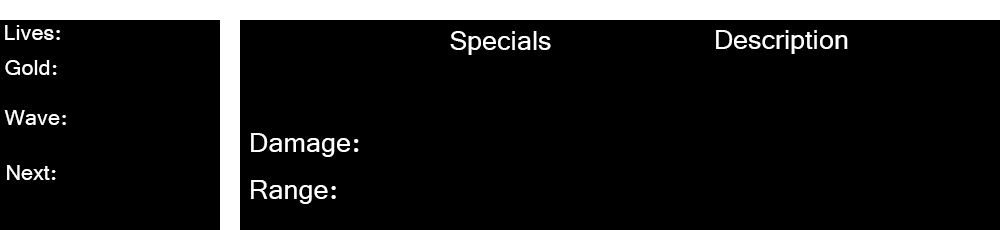
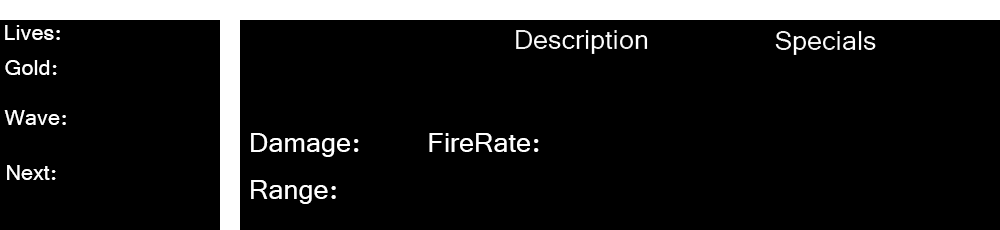
changed ui

Changed region(s): [[0.434, 0.1217, 0.651, 0.2435], [0.713, 0.1217, 0.899, 0.2435], [0.403, 0.5783, 0.558, 0.6696]]

diff --git a/Map.java b/Map.java
@@ -154,11 +154,8 @@ public class Map extends World{
 
         //variable to run place movemet 
         place =  false;
-
-        //cnostruct both buttons (Later build these buttons in the ui building)
     }
 
-    // CHANGED 0.13
     /**
      * Act - do whatever the Tower wants to do. This method is called whenever
      * the 'Act' or 'Run' button gets pressed in the environment.
@@ -176,7 +173,7 @@ public class Map extends World{
             /**Terence's Stuff**/
             checkInput(mouse); 
             if (mouse != null){
-                trackButtons(mouse);        //ADDED 0.135
+                trackButtons(mouse);
                 if (place) // used to place tower when onto the field
                     trackMouse(mouse);
             }
@@ -194,7 +191,6 @@ public class Map extends World{
 
     /**
      * Method that checks the mouse over of buttons
-     * ADDED 0.135
      */
     private void trackButtons (MouseInfo m){
         List<Actor> l = getObjectsAt (m.getX(), m.getY(), null);        //list of all the actors the mouse is ontop of
@@ -216,7 +212,6 @@ public class Map extends World{
 
     /**
      * Method that checks what did the user click on.  or what buttons are pressed
-     * CHANGED 0.135
      */
     private void checkInput(MouseInfo mouse){
         if(mouse != null && Greenfoot.mouseClicked(null)){
@@ -378,7 +373,6 @@ public class Map extends World{
     /**
      * Method for following the mouse when placing on field and placing the object. 
      * WHEN PLACE == TRUE
-     * CHANGED 0.13
      * */
     public void trackMouse(MouseInfo mouse){        
         double x = mouse.getX();
@@ -486,7 +480,7 @@ public class Map extends World{
                 }
 
                 if (!shiftClick){
-                    cancelBuild();      //CHANGED 0.13
+                    cancelBuild();
                 }
                 t.setGridX(x);//pass the grid coordinates for further refrence
                 t.setGridY(y);
@@ -536,7 +530,7 @@ public class Map extends World{
 
         setPaintOrder (StartScreen.class, HoverMenu.class, ChatBox.class, 
             Button.class, Ui.class, PointerArrow.class, Weapon.class, 
-            Tower.class, Range.class, HealthBar.class, Enemy.class, Tower.class, Tile.class);         //CHANGED 0.14
+            Tower.class, Range.class, HealthBar.class, Enemy.class, Tower.class, Tile.class);        
     }
 
     /**
@@ -556,9 +550,6 @@ public class Map extends World{
         }
     }
 
-    /**
-     * ADDED 0.13
-     */
     private void uiAct(){
         if (selectedTower != null && refreshUi){
             refreshUi = false;
@@ -573,9 +564,6 @@ public class Map extends World{
         }
     }
 
-    /**
-     * ADDED 0.13
-     */
     private void showRange(int range, boolean show){
         if (show){
             r = new Range(range);
@@ -625,7 +613,6 @@ public class Map extends World{
     /**
      * called after a mob dies
      * deletes it from the world, and removes it from the arraylist of mobs
-     * CHANGED 0.13
      */
     public void mobDie (Enemy mob, boolean exitWorld){
         if (!exitWorld){
@@ -717,7 +704,6 @@ public class Map extends World{
 
     /**
      * spawns a mob
-     * CHANGED 0.14
      */
     private void spawn(LinkedList<Enemy> ll){
         Enemy newEnemy = ll.remove();

diff --git a/Tower.java b/Tower.java
@@ -33,11 +33,10 @@ public class Tower extends Actor
     protected String elementString; //the string of the element
 
     protected int targetPriority;   //targetting priority, 1 for closest, 2 for furthest, etc
-  
+
     public Tower()
     {
-        //setImage("TowerPlaceHolder.png");
-        name = "Tower";
+        name = "";
         desc = new ArrayList<String>(5);
 
         targetedMob = null;
@@ -63,7 +62,7 @@ public class Tower extends Actor
             counter = 999;
         }
     }
- 
+
     /**
      * Act - do whatever the Tower wants to do. This method is called whenever
      * the 'Act' or 'Run' button gets pressed in the environment.
@@ -258,13 +257,12 @@ public class Tower extends Actor
         map.resetUi(); //refreshes the ui after upgrade
     }
 
-
     private void addDebuff()
     {
 
     }
 
-      /**
+    /**
      * passes the maximum attack range of the tower
      */
     public int getRange()
@@ -295,7 +293,7 @@ public class Tower extends Actor
     public int getDmg(){
         return power;
     }
-    
+
     public int getAttackSpeed(){
         return attackRate;
     }

diff --git a/WaterTower.java b/WaterTower.java
@@ -8,7 +8,7 @@ import greenfoot.*;  // (World, Actor, GreenfootImage, Greenfoot and MouseInfo)
  */
 public class WaterTower extends Tower
 {
-     public WaterTower() 
+    public WaterTower() 
     {
         super();
         setImage("Towers/waterTower.png");
@@ -17,10 +17,12 @@ public class WaterTower extends Tower
         range = 50;
         speed = 4;
         power = 20; 
-        
+
         element = 2;
         elementString = "water";
-        
+
+        name = "Water Tower";
+
         desc.add ("Insert Description Here");
         desc.add ("A description of the Tower");
     }

diff --git a/FireTower.java b/FireTower.java
@@ -16,11 +16,13 @@ public class FireTower extends Tower
         range = 300; // maxiumum range of the tower 
         speed = 10;// speed of the projectile
         power = 10; 
-        
+
         element = 3;
         elementString = "fire";
-        
-        desc.add ("Insert Description Here");
-        desc.add ("Tower with average power, range and attack range");
+
+        name = "Fire Tower";
+
+        desc.add ("Tower with average power,");
+        desc.add ("range and attack range");
     }
 }

diff --git a/Ui.java b/Ui.java
@@ -245,7 +245,7 @@ public class Ui extends Actor
             bg.setFont  (descFont);
             for (int i = 0; i < desc.size(); i++){
                 tempString = desc.get(i);
-                bg.drawString (tempString, 650, 85 + i * 20);
+                bg.drawString (tempString, 490, 85 + i * 20);
             }
 
             //stats

diff --git a/AirTower.java b/AirTower.java
@@ -20,7 +20,8 @@ public class AirTower extends Tower
         element = 1;
         elementString = "air";
         
-        desc.add ("Insert Description Here");
-        desc.add ("lightweight tower, capable of attacking air unit");
+        name = "Air Tower";
+        
+        desc.add ("lightweight tower");
     }
 }

diff --git a/EarthTower.java b/EarthTower.java
@@ -20,7 +20,8 @@ public class EarthTower extends Tower
         element = 4;
         elementString = "earth";
         
-        desc.add ("Insert Description Here");
+        name = "Earth Tower";
+        
         desc.add ("A description of the Tower");
     }
 }
